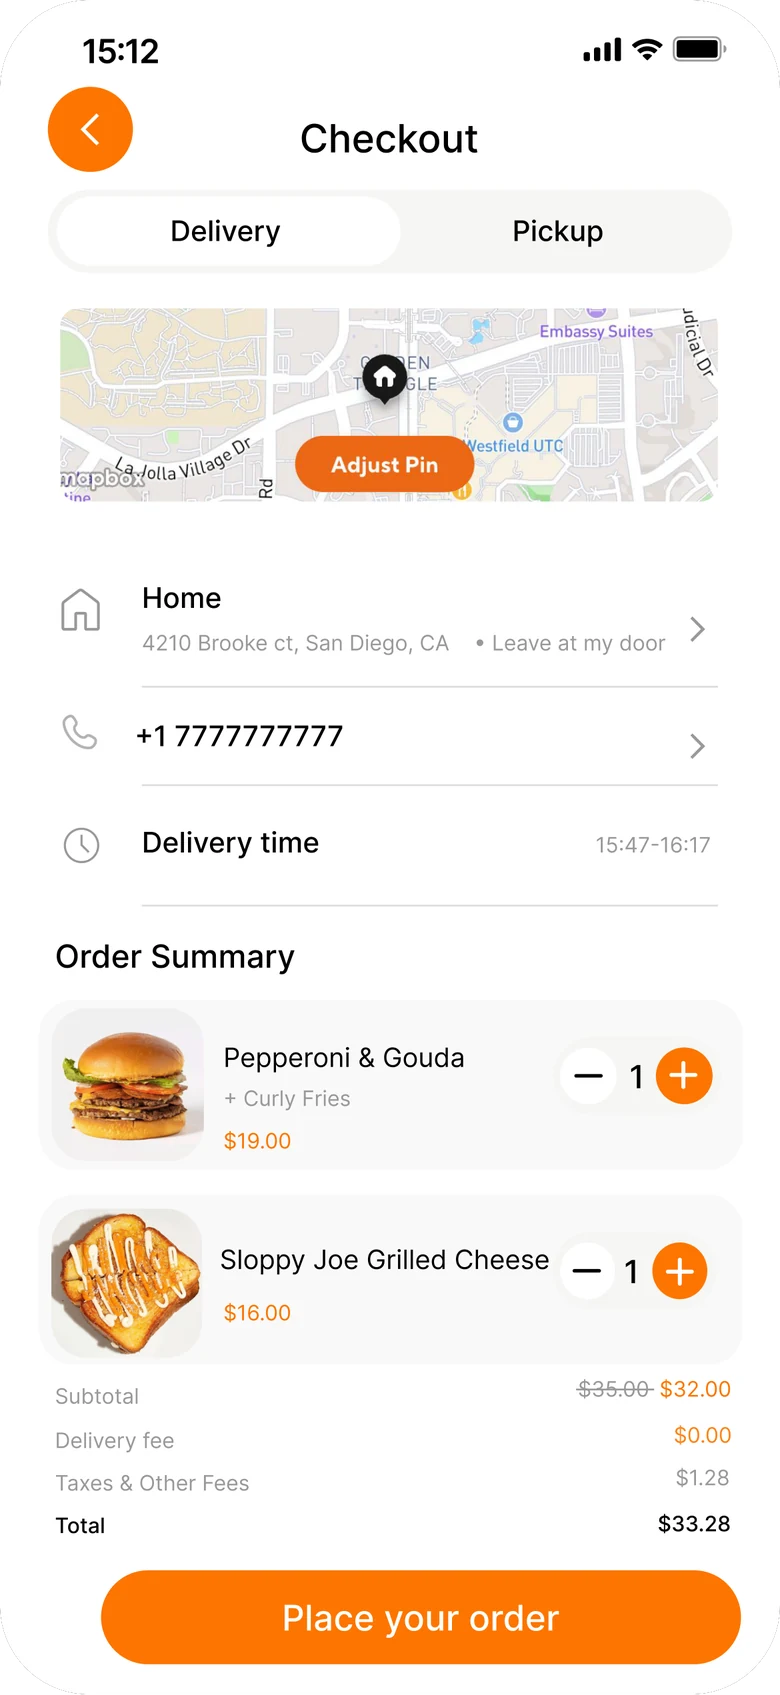
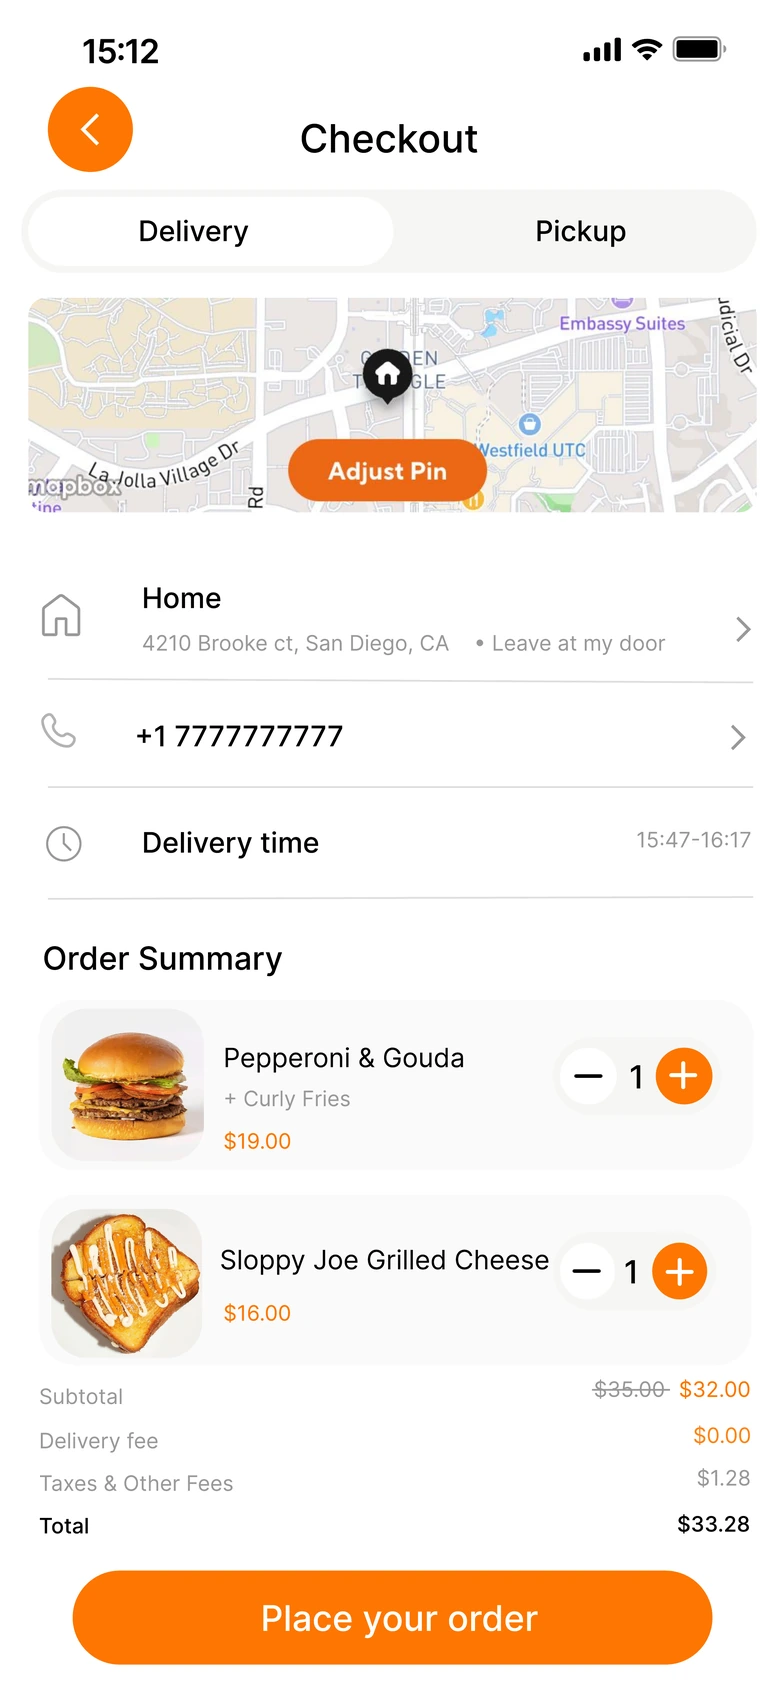
Vegan Kitchen: refreshed version 2 screens; Fix 01 shows four before/after sliders
New exports for every version 2 screen (no tile borders, larger item counts, no discount badge, tighter margins,
thin line instead of a shadow on the nav bar). Fix 01 compares home, categories, item and checkout, without tags.

diff --git a/app/playground/vegan-kitchen/page.tsx b/app/playground/vegan-kitchen/page.tsx
@@ -81,6 +81,30 @@ const STAFF_TEST = [
   ph(13, "Availability report", "Availability report"),
 ];
 
+// Fix 01 comparisons: version 1 → version 2 for customization, plus the version 2 clean-up (prev → refreshed).
+const REFRESH = [
+  {
+    before: `${V}/f15-prev.webp`, beforeAlt: "Home with a drop-shadow navigation bar",
+    after: `${V}/f15.webp`, afterAlt: "Home with a thin line above the navigation bar",
+    caption: <L en="Home: a thin line replaces the nav bar’s drop shadow" zh="首页：导航栏的投影改为一条细线" />,
+  },
+  {
+    before: `${V}/f16-prev.webp`, beforeAlt: "All menu categories with outlined tiles",
+    after: `${V}/f16.webp`, afterAlt: "All menu categories without tile borders and with larger item counts",
+    caption: <L en="Categories: no tile borders, larger item counts" zh="分类页：去掉卡片边框，放大菜品数量" />,
+  },
+  {
+    before: `${V}/f04.webp`, beforeAlt: "Version 1 item page: small add-on text near the bottom",
+    after: `${V}/f32.webp`, afterAlt: "Version 2 item page: grouped add-ons, no discount badge",
+    caption: <L en="Item: grouped add-ons, no discount badge" zh="菜品页：加料选项分组，去掉折扣标签" />,
+  },
+  {
+    before: `${V}/f20-prev.webp`, beforeAlt: "Checkout with wider page margins",
+    after: `${V}/f20.webp`, afterAlt: "Checkout with tighter, consistent margins",
+    caption: <L en="Checkout: tighter, consistent margins" zh="结账页：边距收窄并统一" />,
+  },
+];
+
 const SCENARIOS = [
   {
     who: "Customer · Student",
@@ -516,15 +540,15 @@ export default function ValsVeganKitchen() {
               </div>
             </Stack>
             <Reveal>
-              <div className="grid items-center gap-10 md:grid-cols-[minmax(0,0.75fr)_minmax(0,1.25fr)] md:gap-16">
-                <CompareSlider
-                  before={{ src: `${V}/f04.webp`, alt: "Version 1 item page: small add-on text near the bottom" }}
-                  after={{ src: `${V}/f32.webp`, alt: "Version 2 item page: larger, clearer add-on options" }}
-                  beforeLabel="Version 1"
-                  afterLabel="Version 2"
-                  width={300}
-                />
-                <div className="flex flex-col gap-5">
+              {/* Four before/after sliders: the customization fix plus the version 2 visual clean-up. */}
+              <div className="grid grid-cols-2 gap-x-5 gap-y-10 lg:grid-cols-4 lg:gap-x-8">
+                {REFRESH.map((c) => (
+                  <CompareSlider key={c.after} before={{ src: c.before, alt: c.beforeAlt }} after={{ src: c.after, alt: c.afterAlt }} width={260} labels={false} caption={c.caption} />
+                ))}
+              </div>
+            </Reveal>
+            <Reveal>
+              <div className="grid gap-5 md:grid-cols-2 md:gap-6">
                   <div className="rounded-card border border-white/10 bg-white/[0.03] p-6 md:p-7">
                     <span className="font-gilroy text-[12px] uppercase tracking-[0.2em] text-neutral-500">Option A · Visible</span>
                     <p className="font-gilroy mt-2 text-[15px] leading-[1.6] text-neutral-300">
@@ -547,10 +571,11 @@ export default function ValsVeganKitchen() {
                       />
                     </p>
                   </div>
-                  <P>
-                    <L en="Version 2 uses Option B: easy to find, without crowding the page." zh="版本 2 采用了 Option B：既容易找到，又不会让页面显得拥挤。" />
-                  </P>
-                </div>
+              </div>
+              <div className="mt-6">
+                <P>
+                  <L en="Version 2 uses Option B: easy to find, without crowding the page." zh="版本 2 采用了 Option B：既容易找到，又不会让页面显得拥挤。" />
+                </P>
               </div>
             </Reveal>
           </WideSection>

diff --git a/components/case/phone-flow.tsx b/components/case/phone-flow.tsx
@@ -152,6 +152,8 @@ export function CompareSlider({
   width = 340,
   device = false,
   island = false,
+  labels = true,
+  caption,
 }: {
   before: { src: string; alt: string };
   after: { src: string; alt: string };
@@ -160,6 +162,10 @@ export function CompareSlider({
   width?: number;
   device?: boolean;
   island?: boolean;
+  /** false: no Before/After pills and no "Drag to compare" line (used in compact grids). */
+  labels?: boolean;
+  /** Short line under the slider (replaces "Drag to compare" when labels are off). */
+  caption?: ReactNode;
 }) {
   const box = useRef<HTMLDivElement>(null);
   const [pos, setPos] = useState(50);
@@ -189,7 +195,7 @@ export function CompareSlider({
 
   return (
     <div ref={ref} className="mx-auto w-full" style={{ maxWidth: width }}>
-      <div className="mb-3 flex justify-between">
+      {labels && <div className="mb-3 flex justify-between">
         {[beforeLabel, afterLabel].map((l, i) => (
           <span
             key={l}
@@ -199,7 +205,7 @@ export function CompareSlider({
             {l}
           </span>
         ))}
-      </div>
+      </div>}
       <Frame device={device} island={island} width={width}>
         <div
           ref={box}
@@ -244,7 +250,11 @@ export function CompareSlider({
           </div>
         </div>
       </Frame>
-      <p className="font-gilroy mt-5 text-center text-[12px] uppercase tracking-[0.2em] text-neutral-500"><L en="Drag to compare" zh="拖动对比" /></p>
+      {labels ? (
+        <p className="font-gilroy mt-5 text-center text-[12px] uppercase tracking-[0.2em] text-neutral-500"><L en="Drag to compare" zh="拖动对比" /></p>
+      ) : (
+        caption && <p className="font-gilroy mt-4 text-center text-[14px] leading-[1.5] text-neutral-400">{caption}</p>
+      )}
     </div>
   );
 }
